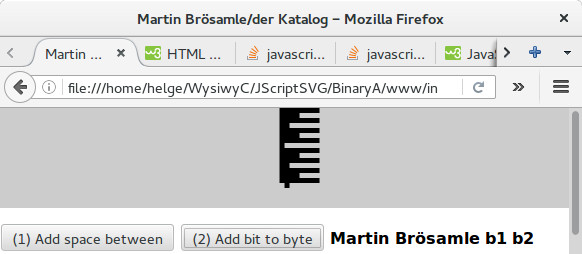
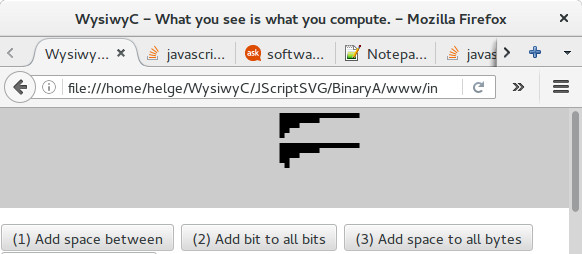
A byte logic based on the lenght of the uppermost bit.

diff --git a/JScriptSVG/BinaryA/www/index.html b/JScriptSVG/BinaryA/www/index.html
@@ -13,14 +13,16 @@
 <body class="mainpage">
 <div class="fullsizecontainer">
 <svg viewBox="0 0 2 20" class="visualbyte" style="background:#cccccc;" >
-<rect id="TESTID" x="0" y="0" width="1" height="1"/>
+<rect x="0" y="0" width="1" height="1"/>
 <rect x="1" y="1" width="1" height="1"/>
 </svg>
 </div>
 <p>
 
 <button onclick="addSpaceToAllBits()">(1) Add space between</button>
-<button onclick="addBitToByte()">(2) Add bit to all bits</button>
+<button onclick="addBitToAllBits()">(2) Add bit to all bits</button>
+<button onclick="addSpaceToAllBytes()">(3) Add space to all bytes</button>
+<button onclick="addBitToAllBytes()">(4) Add bit to all bits</button>
 <b id="MeinName" style="color:black">Martin&nbsp;Brösamle</b>
 <b style="color:black">b1</b>
 <b style="color:black">b2</b>
@@ -38,6 +40,14 @@ function movedownRect(rect) {
 	rect.setAttribute('y', parseInt(rect.getAttribute("y"))+1);
 }
 
+function addSpaceToAllBits() {	
+	var rectsarr = getAllRectsArray()
+	while (rectsarr.length > 0) {
+		rectsarr.map(movedownRect);
+		rectsarr.shift();
+	}
+}
+
 function addBitToAllBits() {
 	var rectsarr = getAllRectsArray()
 	var template = rectsarr[0].cloneNode()
@@ -49,20 +59,47 @@ function addBitToAllBits() {
 		var x = parseInt(rect.getAttribute("x"));
 		var y = parseInt(rect.getAttribute("y"));
 		var clon = template.cloneNode();
-		//clon.setAttribute("x",x);
 		clon.setAttribute("y",y-1);
 		rect.parentNode.insertBefore(clon,rect);
 	} 
 	rectsarr.map(f);
 }
 
-function addSpaceToAllBits() {	
+function addSpaceToAllBytes() {
 	var rectsarr = getAllRectsArray()
+	var wi = rectsarr[0].getAttribute("width")
+	
 	while (rectsarr.length > 0) {
 		rectsarr.map(movedownRect);
 		rectsarr.shift();
+		// skip all those which are not of width wi
+		while (rectsarr.length > 0 && rectsarr[0].getAttribute("width") != wi ) {
+			rectsarr.shift();
+		}
 	}
 }
+
+function addBitToAllBytes() {
+	var rectsarr = getAllRectsArray();
+	var template = rectsarr[0].cloneNode();
+	var wi = rectsarr[0].getAttribute("width");
+	
+	template.setAttribute("width",parseInt(template.getAttribute("width"))*2);
+	
+	function f (rect) {
+		var x = parseInt(rect.getAttribute("x"));
+		var y = parseInt(rect.getAttribute("y"));
+		var clon = template.cloneNode();
+		//clon.setAttribute("x",x);
+		if (rect.getAttribute("width") == wi) {
+			clon.setAttribute("y",y-1);
+			rect.parentNode.insertBefore(clon,rect);
+		}
+	}
+	 
+	rectsarr.map(f);
+}
+
 </script>
 </body>
 </html>
